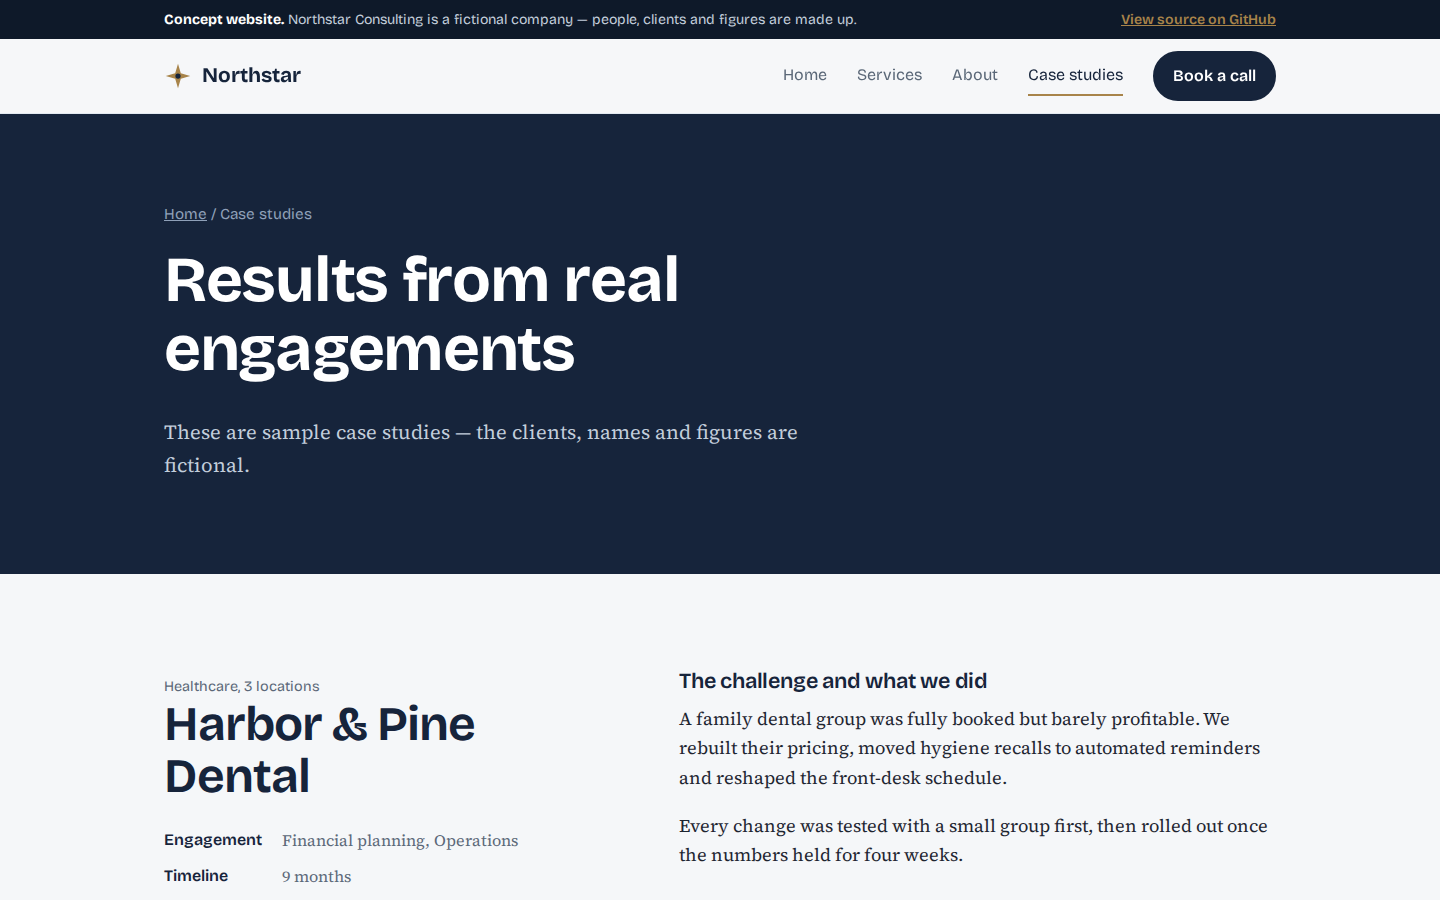
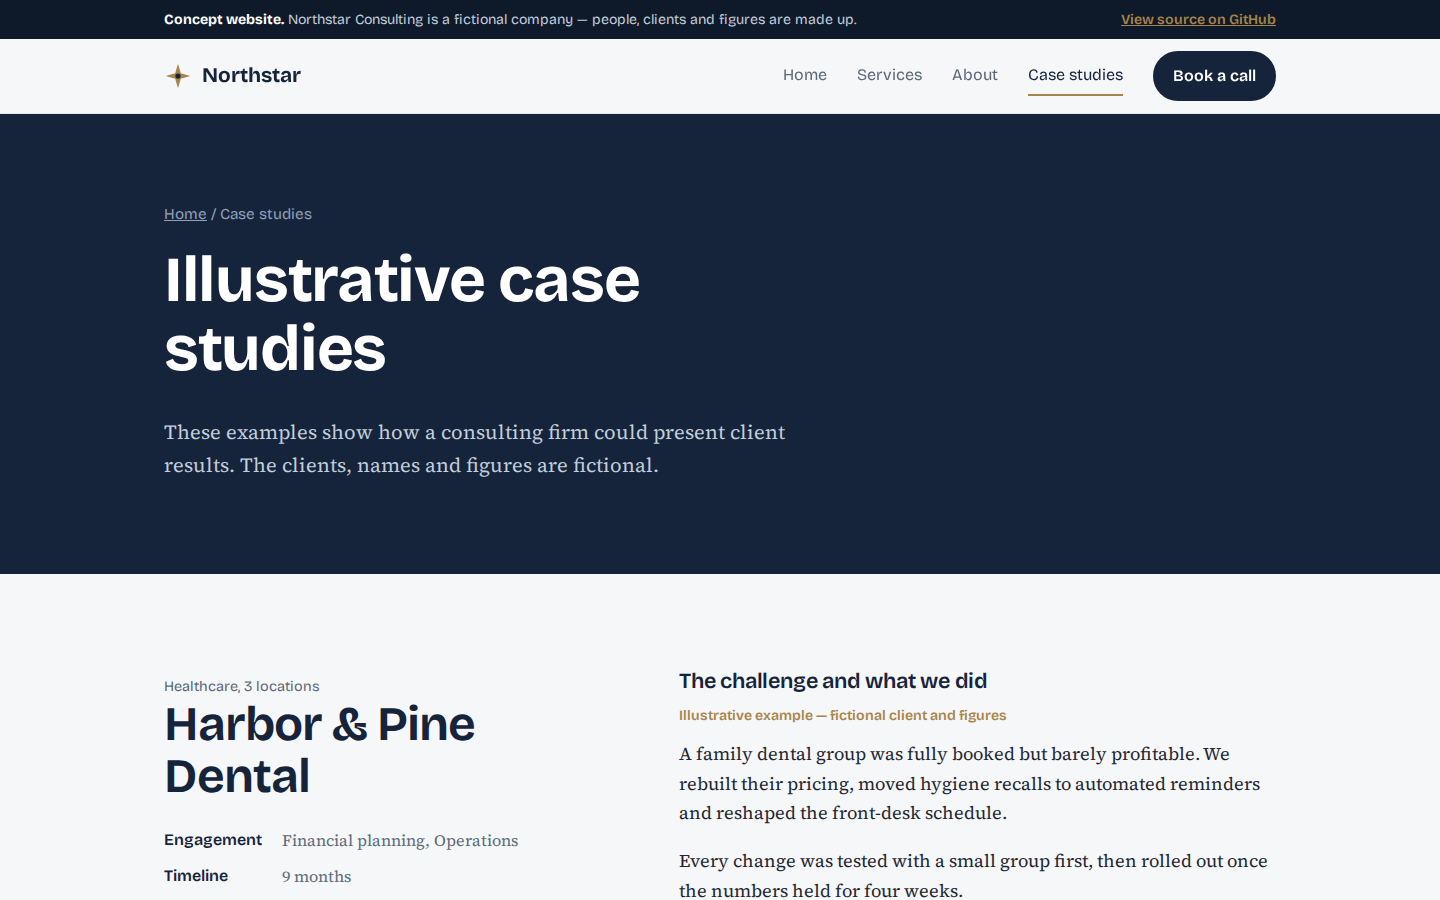
Credit Mustufa Shaikh as designer and developer

Changed region(s): [[0.4688, 0.7778, 0.875, 1.0], [0.0938, 0.28, 0.4688, 0.4356], [0.0938, 0.4667, 0.5625, 0.5289]]

diff --git a/about.html b/about.html
@@ -18,7 +18,7 @@
 <link rel="preload" href="assets/fonts/bricolage-grotesque-latin-wght-normal.woff2" as="font" type="font/woff2" crossorigin>
 <link rel="preload" href="assets/fonts/source-serif-4-latin-wght-normal.woff2" as="font" type="font/woff2" crossorigin>
 <link rel="stylesheet" href="assets/style.css">
-<script type="application/ld+json">{"@context":"https://schema.org","@type":"WebSite","name":"Northstar Consulting (concept website)","url":"https://gmoo7.github.io/northstar-consulting/","description":"Portfolio demo of a professional services website for a fictional consulting firm.","creator":{"@type":"Person","name":"Hashir","url":"https://github.com/GMoo7"}}</script>
+<script type="application/ld+json">{"@context":"https://schema.org","@type":"WebSite","name":"Northstar Consulting (concept website)","url":"https://gmoo7.github.io/northstar-consulting/","description":"Portfolio demo of a professional services website for a fictional consulting firm.","creator":{"@type":"Person","name":"Mustufa Shaikh","url":"https://github.com/GMoo7"}}</script>
 </head>
 <body>
 <a class="skip" href="#main">Skip to content</a>
@@ -47,7 +47,7 @@
 <div><h4>Company</h4><ul><li><a href="about.html">About</a></li><li><a href="case-studies.html">Case studies</a></li><li><a href="index.html#faq">FAQ</a></li><li><a href="contact.html">Contact</a></li></ul></div>
 <div><h4>Contact</h4><ul><li><a href="mailto:hello@northstar-demo.com">hello@northstar-demo.com</a></li><li><a href="tel:+15125550148">(512) 555-0148</a></li><li>Austin, TX (fictional office)</li></ul></div>
 </div>
-<div class="base"><span>© <span data-year></span> Northstar Consulting. Fictional company, portfolio concept.</span><span>Designed &amp; built by <a href="https://github.com/GMoo7">Hashir</a></span></div>
+<div class="base"><span>© <span data-year></span> Northstar Consulting. Fictional company, portfolio concept.</span><span>Designed &amp; built by <a href="https://github.com/GMoo7">Mustufa Shaikh</a></span></div>
 </div></footer>
 <script src="assets/main.js"></script>
 </body>

diff --git a/case-studies.html b/case-studies.html
@@ -18,7 +18,7 @@
 <link rel="preload" href="assets/fonts/bricolage-grotesque-latin-wght-normal.woff2" as="font" type="font/woff2" crossorigin>
 <link rel="preload" href="assets/fonts/source-serif-4-latin-wght-normal.woff2" as="font" type="font/woff2" crossorigin>
 <link rel="stylesheet" href="assets/style.css">
-<script type="application/ld+json">{"@context":"https://schema.org","@type":"WebSite","name":"Northstar Consulting (concept website)","url":"https://gmoo7.github.io/northstar-consulting/","description":"Portfolio demo of a professional services website for a fictional consulting firm.","creator":{"@type":"Person","name":"Hashir","url":"https://github.com/GMoo7"}}</script>
+<script type="application/ld+json">{"@context":"https://schema.org","@type":"WebSite","name":"Northstar Consulting (concept website)","url":"https://gmoo7.github.io/northstar-consulting/","description":"Portfolio demo of a professional services website for a fictional consulting firm.","creator":{"@type":"Person","name":"Mustufa Shaikh","url":"https://github.com/GMoo7"}}</script>
 </head>
 <body>
 <a class="skip" href="#main">Skip to content</a>
@@ -40,7 +40,7 @@
 <div><h4>Company</h4><ul><li><a href="about.html">About</a></li><li><a href="case-studies.html">Case studies</a></li><li><a href="index.html#faq">FAQ</a></li><li><a href="contact.html">Contact</a></li></ul></div>
 <div><h4>Contact</h4><ul><li><a href="mailto:hello@northstar-demo.com">hello@northstar-demo.com</a></li><li><a href="tel:+15125550148">(512) 555-0148</a></li><li>Austin, TX (fictional office)</li></ul></div>
 </div>
-<div class="base"><span>© <span data-year></span> Northstar Consulting. Fictional company, portfolio concept.</span><span>Designed &amp; built by <a href="https://github.com/GMoo7">Hashir</a></span></div>
+<div class="base"><span>© <span data-year></span> Northstar Consulting. Fictional company, portfolio concept.</span><span>Designed &amp; built by <a href="https://github.com/GMoo7">Mustufa Shaikh</a></span></div>
 </div></footer>
 <script src="assets/main.js"></script>
 </body>

diff --git a/contact.html b/contact.html
@@ -18,7 +18,7 @@
 <link rel="preload" href="assets/fonts/bricolage-grotesque-latin-wght-normal.woff2" as="font" type="font/woff2" crossorigin>
 <link rel="preload" href="assets/fonts/source-serif-4-latin-wght-normal.woff2" as="font" type="font/woff2" crossorigin>
 <link rel="stylesheet" href="assets/style.css">
-<script type="application/ld+json">{"@context":"https://schema.org","@type":"WebSite","name":"Northstar Consulting (concept website)","url":"https://gmoo7.github.io/northstar-consulting/","description":"Portfolio demo of a professional services website for a fictional consulting firm.","creator":{"@type":"Person","name":"Hashir","url":"https://github.com/GMoo7"}}</script>
+<script type="application/ld+json">{"@context":"https://schema.org","@type":"WebSite","name":"Northstar Consulting (concept website)","url":"https://gmoo7.github.io/northstar-consulting/","description":"Portfolio demo of a professional services website for a fictional consulting firm.","creator":{"@type":"Person","name":"Mustufa Shaikh","url":"https://github.com/GMoo7"}}</script>
 </head>
 <body>
 <a class="skip" href="#main">Skip to content</a>
@@ -64,7 +64,7 @@
 <div><h4>Company</h4><ul><li><a href="about.html">About</a></li><li><a href="case-studies.html">Case studies</a></li><li><a href="index.html#faq">FAQ</a></li><li><a href="contact.html">Contact</a></li></ul></div>
 <div><h4>Contact</h4><ul><li><a href="mailto:hello@northstar-demo.com">hello@northstar-demo.com</a></li><li><a href="tel:+15125550148">(512) 555-0148</a></li><li>Austin, TX (fictional office)</li></ul></div>
 </div>
-<div class="base"><span>© <span data-year></span> Northstar Consulting. Fictional company, portfolio concept.</span><span>Designed &amp; built by <a href="https://github.com/GMoo7">Hashir</a></span></div>
+<div class="base"><span>© <span data-year></span> Northstar Consulting. Fictional company, portfolio concept.</span><span>Designed &amp; built by <a href="https://github.com/GMoo7">Mustufa Shaikh</a></span></div>
 </div></footer>
 <script src="assets/main.js"></script>
 </body>

diff --git a/index.html b/index.html
@@ -18,7 +18,7 @@
 <link rel="preload" href="assets/fonts/bricolage-grotesque-latin-wght-normal.woff2" as="font" type="font/woff2" crossorigin>
 <link rel="preload" href="assets/fonts/source-serif-4-latin-wght-normal.woff2" as="font" type="font/woff2" crossorigin>
 <link rel="stylesheet" href="assets/style.css">
-<script type="application/ld+json">{"@context":"https://schema.org","@type":"WebSite","name":"Northstar Consulting (concept website)","url":"https://gmoo7.github.io/northstar-consulting/","description":"Portfolio demo of a professional services website for a fictional consulting firm.","creator":{"@type":"Person","name":"Hashir","url":"https://github.com/GMoo7"}}</script>
+<script type="application/ld+json">{"@context":"https://schema.org","@type":"WebSite","name":"Northstar Consulting (concept website)","url":"https://gmoo7.github.io/northstar-consulting/","description":"Portfolio demo of a professional services website for a fictional consulting firm.","creator":{"@type":"Person","name":"Mustufa Shaikh","url":"https://github.com/GMoo7"}}</script>
 </head>
 <body>
 <a class="skip" href="#main">Skip to content</a>
@@ -93,7 +93,7 @@
 <div><h4>Company</h4><ul><li><a href="about.html">About</a></li><li><a href="case-studies.html">Case studies</a></li><li><a href="index.html#faq">FAQ</a></li><li><a href="contact.html">Contact</a></li></ul></div>
 <div><h4>Contact</h4><ul><li><a href="mailto:hello@northstar-demo.com">hello@northstar-demo.com</a></li><li><a href="tel:+15125550148">(512) 555-0148</a></li><li>Austin, TX (fictional office)</li></ul></div>
 </div>
-<div class="base"><span>© <span data-year></span> Northstar Consulting. Fictional company, portfolio concept.</span><span>Designed &amp; built by <a href="https://github.com/GMoo7">Hashir</a></span></div>
+<div class="base"><span>© <span data-year></span> Northstar Consulting. Fictional company, portfolio concept.</span><span>Designed &amp; built by <a href="https://github.com/GMoo7">Mustufa Shaikh</a></span></div>
 </div></footer>
 <script src="assets/main.js"></script>
 </body>

diff --git a/services.html b/services.html
@@ -18,7 +18,7 @@
 <link rel="preload" href="assets/fonts/bricolage-grotesque-latin-wght-normal.woff2" as="font" type="font/woff2" crossorigin>
 <link rel="preload" href="assets/fonts/source-serif-4-latin-wght-normal.woff2" as="font" type="font/woff2" crossorigin>
 <link rel="stylesheet" href="assets/style.css">
-<script type="application/ld+json">{"@context":"https://schema.org","@type":"WebSite","name":"Northstar Consulting (concept website)","url":"https://gmoo7.github.io/northstar-consulting/","description":"Portfolio demo of a professional services website for a fictional consulting firm.","creator":{"@type":"Person","name":"Hashir","url":"https://github.com/GMoo7"}}</script>
+<script type="application/ld+json">{"@context":"https://schema.org","@type":"WebSite","name":"Northstar Consulting (concept website)","url":"https://gmoo7.github.io/northstar-consulting/","description":"Portfolio demo of a professional services website for a fictional consulting firm.","creator":{"@type":"Person","name":"Mustufa Shaikh","url":"https://github.com/GMoo7"}}</script>
 </head>
 <body>
 <a class="skip" href="#main">Skip to content</a>
@@ -48,7 +48,7 @@
 <div><h4>Company</h4><ul><li><a href="about.html">About</a></li><li><a href="case-studies.html">Case studies</a></li><li><a href="index.html#faq">FAQ</a></li><li><a href="contact.html">Contact</a></li></ul></div>
 <div><h4>Contact</h4><ul><li><a href="mailto:hello@northstar-demo.com">hello@northstar-demo.com</a></li><li><a href="tel:+15125550148">(512) 555-0148</a></li><li>Austin, TX (fictional office)</li></ul></div>
 </div>
-<div class="base"><span>© <span data-year></span> Northstar Consulting. Fictional company, portfolio concept.</span><span>Designed &amp; built by <a href="https://github.com/GMoo7">Hashir</a></span></div>
+<div class="base"><span>© <span data-year></span> Northstar Consulting. Fictional company, portfolio concept.</span><span>Designed &amp; built by <a href="https://github.com/GMoo7">Mustufa Shaikh</a></span></div>
 </div></footer>
 <script src="assets/main.js"></script>
 </body>

diff --git a/README.md b/README.md
@@ -44,4 +44,4 @@ Tested in Chromium at 360px, 390px and 1440px widths: no horizontal scrolling, n
 
 ---
 
-Designed and built by [Hashir](https://github.com/GMoo7). Available for website projects for small and growing businesses.
+Designed and built by [Mustufa Shaikh](https://github.com/GMoo7). Available for website projects for small and growing businesses.
